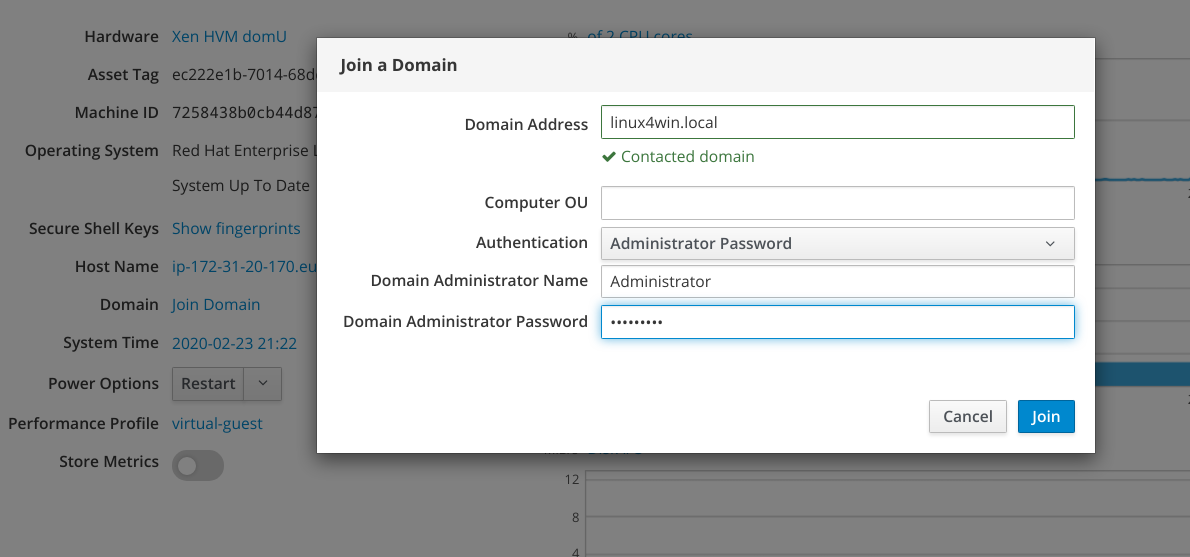
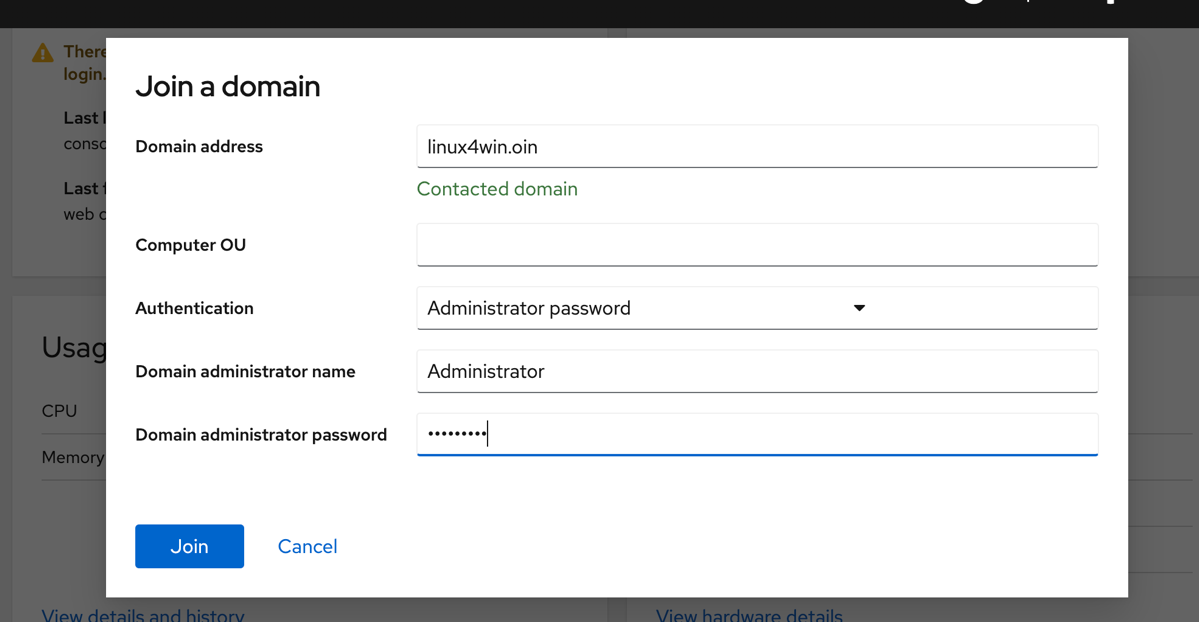
new images for the new interface

diff --git a/content/lab5.md b/content/lab5.md
@@ -90,23 +90,23 @@ As you may have noticed, in the ```Accounts``` menu, there were only locale acco
 :boom: Type below command into the terminal to get information regarding two accounts in the Active Directory.
 
 ```
-id vsda@linux4win.local
-id hger@linux4win.local
+id vsda@linux4win.oin
+id hger@linux4win.oin
 ```
 This provides information about what user ID the users has and also what groups they are a member of (including group IDs of the groups).
 ```
-uid=579601105(vsda@linux4win.local) gid=579600513(domain users@linux4win.local) groups=579600513(domain users@linux4win.local),579601110(minions@linux4win.local)
+uid=579601105(vsda@linux4win.oin) gid=579600513(domain users@linux4win.oin) groups=579600513(domain users@linux4win.oin),579601110(minions@linux4win.oin)
 ```
 In order for this account to become administrator with full priviledges on this computer we will need to add it to the local administrator group, called ```wheel```.
 
 :boom: Add the Active Directory user to the admin group by typing in below command in the terminal.
 ```
-sudo usermod --append -G wheel hger@linux4win.local
+sudo usermod --append -G wheel hger@linux4win.oin
 ```
 
 This ofcourse only works on smaller scale. Not so much on larger scale where you more likely use Groupmembership to govern what you are allowed to do. This is what we will do next, to connect a specific group in Active Directory with specific priviledges on a system.
 
-In order to set this up we are going to use ```sudo``` and configure ```sudo``` to allow Administrator priviledges for members of one of the groups that the user vsda@linux4win.local is a member of.
+In order to set this up we are going to use ```sudo``` and configure ```sudo``` to allow Administrator priviledges for members of one of the groups that the user vsda@linux4win.oin is a member of.
 
 ```Sudo``` automatically reads rules files, which defines who can do what, out of below directory
 ```
@@ -121,7 +121,7 @@ sudo su -
 ```
 :boom: Now, let's create the file. We will use echo and redirect the output to the file. Copy and paste below line, to reduce risk of errors.
 ```
-echo "%minions@linux4win.local ALL=(ALL) NOPASSWD: ALL" >/etc/sudoers.d/minions
+echo "%minions@linux4win.oin ALL=(ALL) NOPASSWD: ALL" >/etc/sudoers.d/minions
 ```
 :boom: Next, verify the content of the file, using another useful little terminal tool ```cat```, which prints the content of files to the terminal. Use below command to show the content of the file:
 
@@ -129,9 +129,9 @@ echo "%minions@linux4win.local ALL=(ALL) NOPASSWD: ALL" >/etc/sudoers.d/minions
 cat /etc/sudoers.d/minions
 ```
 
-Next, let's see if the vsda@linux4win.local user also has gained Administrator priviledges. As administrator, we can become other users by using the ```su``` command. Type in below commands into the terminal. 
+Next, let's see if the vsda@linux4win.oin user also has gained Administrator priviledges. As administrator, we can become other users by using the ```su``` command. Type in below commands into the terminal. 
 ```
-sudo su - vsda@linux4win.local
+sudo su - vsda@linux4win.oin
 ```
 
 :exclamation: If above command fails, it means that we screwed up the ```sudo``` configuration. Run below command to remove the failty configuration file and try again.
@@ -141,16 +141,16 @@ rm /etc/sudoers.d/minions
 ```
 
 
-If everything went well. Try a to run the sudo command as the vsda@linux4win.local by typing in:
+If everything went well. Try a to run the sudo command as the vsda@linux4win.oin by typing in:
 ```
 sudo whoami
 ```
 You should get the output as shown below.
 
 ```
-[vsda@linux4win.local@ip.. ~]$ sudo whoami
+[vsda@linux4win.oin@ip.. ~]$ sudo whoami
 root
-[vsda@linux4win.local@ip.. ~]$ 
+[vsda@linux4win.oin@ip.. ~]$ 
 ```
 
 ## Intro to access controls
@@ -170,7 +170,11 @@ If an application do not have specific functions that allows for access restrict
 
 Red Hat Enterprise Linux comes with a PAM moduled called pam_listfile, which allows us to define a textfile which contains users or groups which should be granted access in a whitelist manner, or which would be denied access in a blacklist manner.
 
-To create a whitelist for which group can access the ```Web console```, we need to modify its ```PAM``` ruleset.
+To create a whitelist for which group can access the ```Web console```, we need to modify its ```PAM``` ruleset and before we do this you will check with one of the users from Active Directory.
+
+:boom: Choose ```Log Out``` from the ```Session``` meny in the top right corner. Then use vsda@linux4win.oin with password Password1 to verify that this user can log in.
+
+:boom: Choose ```Log Out``` from the ```Session``` meny in the top right corner and log back in with the ```rhel``` user
 
 :boom: Go to the ```Terminal``` menu option on the left side menu and run below commands to enter into an administrator session:
 
@@ -219,7 +223,7 @@ EOF
 
 :exclamation: Do not miss that last line above, stating ```EOF```
 
-:boom: Now, try to login using the new local user you created in the previous lab. It will be unsuccessful, while you can still login as the ```rhel``` user.
+:boom: Now, try to login using the other AD (hger@linux4win.oin) or any user you created in the previous lab. It will be unsuccessful, while you can still login as the ```rhel``` user.
 
 ## Securing SSH by configuring the service itself
 
@@ -235,7 +239,7 @@ sudo su -
 
 To configure ```SSH``` to only allow one single group access and deny all other groups, run below command
 ```
-echo "AllowGroups minions@linux4win.local" >>/etc/ssh/sshd_config
+echo "AllowGroups minions@linux4win.oin" >>/etc/ssh/sshd_config
 ```
 
 We are further going to deny a user access (even if it is a part of the group we allowed access). That user is the generic administrator user in Active Directory.
@@ -243,10 +247,10 @@ We are further going to deny a user access (even if it is a part of the group we
 :boom: Run below command to add the additional line which limits the user access.
 
 ```
-echo "DenyUsers administrator administrator@linux4win.local" >>/etc/ssh/sshd_config
+echo "DenyUsers administrator administrator@linux4win.oin" >>/etc/ssh/sshd_config
 ```
 
-Now you have to be a member of the minions@linux4win.local Security Group in Active Directory to be allowed to login using ssh. Also we blocked access to the generic Administrator account which can pose a security issue if used.
+Now you have to be a member of the minions@linux4win.oin Security Group in Active Directory to be allowed to login using ssh. Also we blocked access to the generic Administrator account which can pose a security issue if used.
 
 :boom: Now we need to restart the sshd service for these settings to get applied. Click on the ```Services``` menu option to your left and filter for the sshd service as shown below.
 

diff --git a/content/lab4.md b/content/lab4.md
@@ -77,15 +77,15 @@ curl localhost
 
 Next, we're going to open up external communication to our web server.
 
-:boom: Go to the ```Networking``` main page and locate where it says ```Firewall``` and click there or where it says ```3 Active rules```. The detailed firewall page will now appear, as shown below.
+:boom: Go to the ```Networking``` main page and locate where it says ```Firewall``` and click on the button ```Edit rules and zones```. The detailed firewall page will now appear, as shown below.
 
 ![firewall setup details](images/interface_firewalld.png)
 
 Let's explain what you are seeing. On the top, where it reads ```Firewall``` you can enable and disable the firewall on this server.
 
-Below there, it says ```Active zones```. Zones are basically collections of rules, which we can connected to different networks that a system is connected to. By default, there is only one zone, called ```Public```, but we can pratically have unlimted number of zones, if needed.
+Below there, it says ```public zone```. Zones are basically collections of rules, which we can connected to different networks that a system is connected to. By default, there is only one zone, called ```Public```, but we can pratically have unlimted number of zones, if needed.
 
-Below ```Active zones``` it says ```Allowed Services```. As we are using ```firewalld``` to manage the firewall on this system, firewall rules can be abstracted away from and defined as services, where each service lists what ports needs to be opened up. This reduces the risk of administrators forgetting to open up specific ports, for services which requires many different ports to be open to function.
+In the ```public zone``` it says ```Service```. As we are using ```firewalld``` to manage the firewall on this system, firewall rules can be abstracted away from and defined as services, where each service lists what ports needs to be opened up. This reduces the risk of administrators forgetting to open up specific ports, for services which requires many different ports to be open to function.
 
 Next we will allow communication for our web server.
 

diff --git a/content/lab3.md b/content/lab3.md
@@ -35,6 +35,8 @@ At the main ```Services``` page there's a list of all installed services on this
 
 Key information on this page includes: What's the status of this service? Will it automatically start at boot? When will it start? And logs for this specific service.
 
+Fold down the entry named ```Show relationships``` to see all information dispayed in the picture below.
+
 ![services user interface](images/manage_services2.png)
 
 Now we are going to install a new service that we will need to set to start up automatically when the server boots up. For this, we will need the terminal.
@@ -74,6 +76,8 @@ Is this ok [y/N]: y
 Selecting ```y``` installs not only the binaries for the Apache web server and the dependencies it needs to work, but also a services definition for it. This allows us to manage the state of Apache using the ```Services``` interface in the ```Web console```.
 
 :boom: Click on services and filter for ```httpd```, just as you did previously with ssh. You should see an entry called ```httpd.service```. Click on that entry, which will take you to the below shown page.
+
+:exclamation: If the page is missing buttons please reload the page.
 
 ![service httpd enable](images/interface_httpddead.png)
 

diff --git a/content/lab2.md b/content/lab2.md
@@ -64,7 +64,7 @@ There are also two more disks attached, called ```xvdb``` and ```xvdc```, both 1
 
 ![create volgroup ](images/interface_createvg.png)
 
-We have now created a volume group, to wich we in the future can add more disk to, this will prove to be useful in later labs.
+We have now created a volume group, to which we in the future can add more disk to, this will prove to be useful in later labs.
 
 Next up is to create the ```Logical Volume``` on which we will create the actual filesystem.
 

diff --git a/content/lab6.md b/content/lab6.md
@@ -54,7 +54,7 @@ The failed service is the chronyd service. Chronyd is the default NTP service on
 
 Here you can filter on severity of the log messages. 
 
-:boom: Click the menu item where it says ```Severity```
+:boom: Click the menu item where it says ```Priority```
 ![severity details](images/severity_menu.png)
 
 :boom: Select a level below Error like ```Info and above```. Compare this with the other options for log-level.
